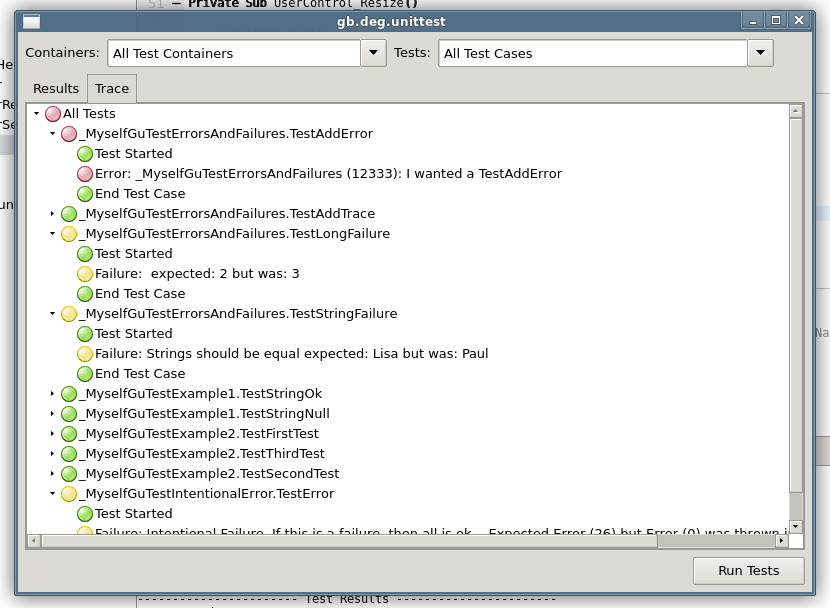
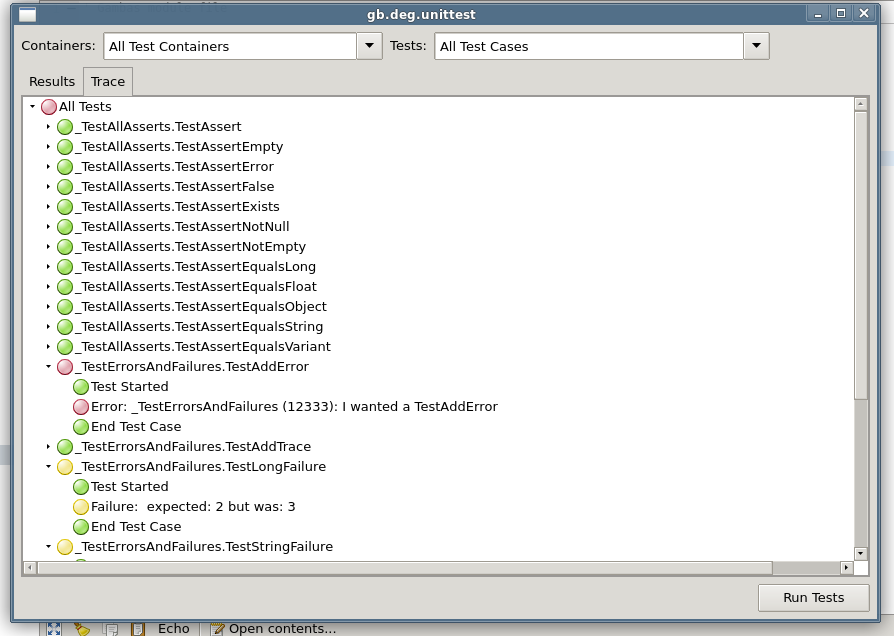
Readme

Changed region(s): [[0.0, 0.0, 1.0, 1.0]]

diff --git a/README.md b/README.md
@@ -6,7 +6,7 @@ Scroll down to understand, how it works.
 
 ## Runner
 
-Here you can see the Unittest tests itself. The testclasses (here called TestContainer) have to produce some failures and one error, to prove, that all works ok. Usually the TestContainer's names should start with "_GuTest" but for testing itself Unittest uses an alternate prefix ("_MyselfGuTest").
+Here you can see the Unittest tests itself. The testclasses (here called TestContainer) have to produce some failures and one error, to prove, that all works ok.
 
 ![Unittest Runner](runner-screen.png)
 
@@ -25,11 +25,11 @@ The following example you find also in [this simple Gambas project](unittesthell
 
 ### Example TestContainer
 
-You should create a class with a name starting with "_GuTest", for example "_GuTestHelloWorld", it contains one or more public testmethod(s). It has to inherit from ATestContainer and it has to be exported to ensure the unittest will recognize it. It is the so called TestContainer:
+You should create a class with a name starting with "_Test", for example "_TestHelloWorld", it contains one or more public testmethod(s). It has to inherit from ATestContainer and it has to be exported to ensure the unittest will recognize it. It is the so called TestContainer:
 
 ----
     ' Gambas class file
-    ''' TestContainer _GuTestHelloWorld
+    ''' TestContainer _TestHelloWorld
     
     Export
     Inherits ATestContainer
@@ -64,7 +64,7 @@ To make it work, we need a funktion to test. So we create a function "World" in 
 
 ### Invite Unittest
 
-The simple way to execute the Unittest is, to create another Module, name it "Test" ore something more interesting and make it a a Gambas Startclass:
+The simple way to execute the Unittest is, to create another Module, name it "Test" ore something more interesting and make it a Gambas Startclass:
 
 ----
 
